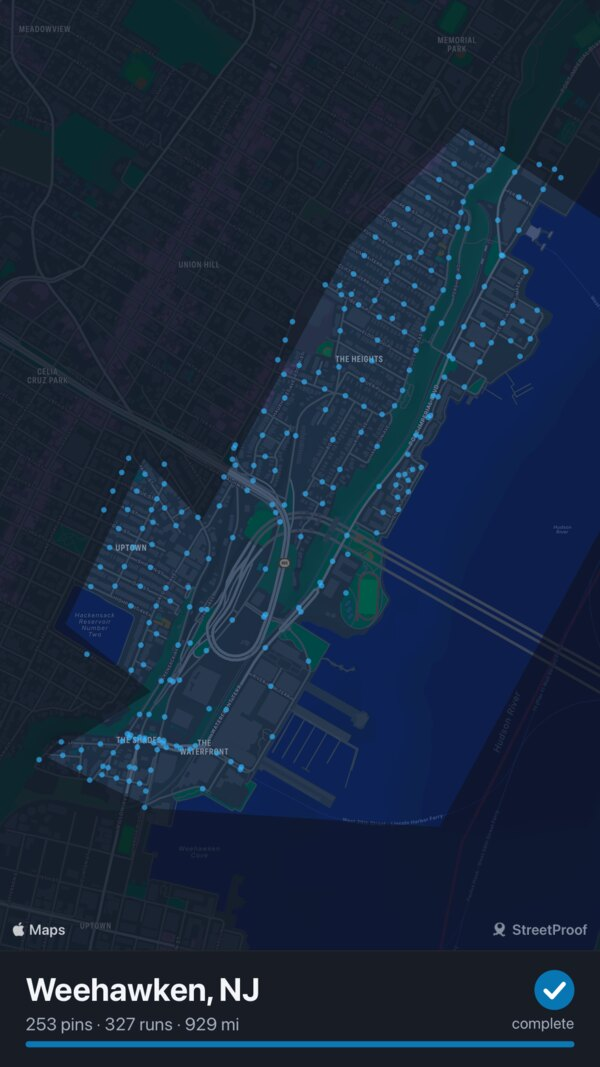
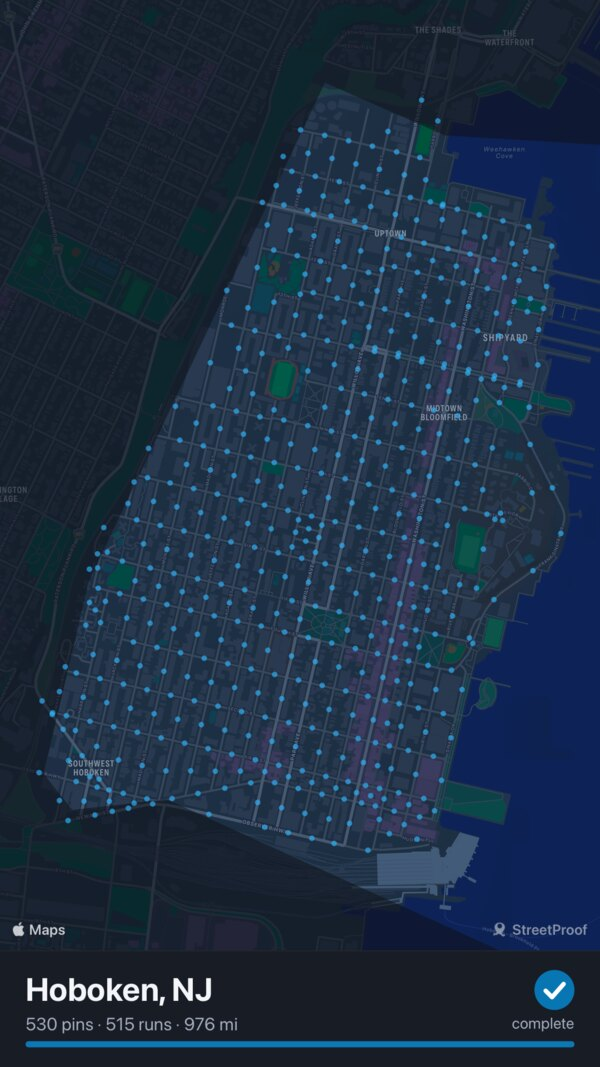
StreetProof page: fixed watch capture in the + hero, Hoboken completed-city export

diff --git a/streetproof/index.html b/streetproof/index.html
@@ -285,7 +285,7 @@
             <source src="/streetproof/proof-replay-hd.mp4" type="video/mp4" media="(min-resolution: 1.5dppx)">
             <source src="/streetproof/proof-replay-sd.mp4" type="video/mp4">
           </video></div>
-          <div class="tile"><img src="/streetproof/export-city-complete.jpg" alt="A completed city export: Weehawken, every Proof Pin blue"/></div>
+          <div class="tile"><img src="/streetproof/export-city-complete.jpg" alt="A completed city export: Hoboken, every Proof Pin blue"/></div>
         </div>
       </section>
 
